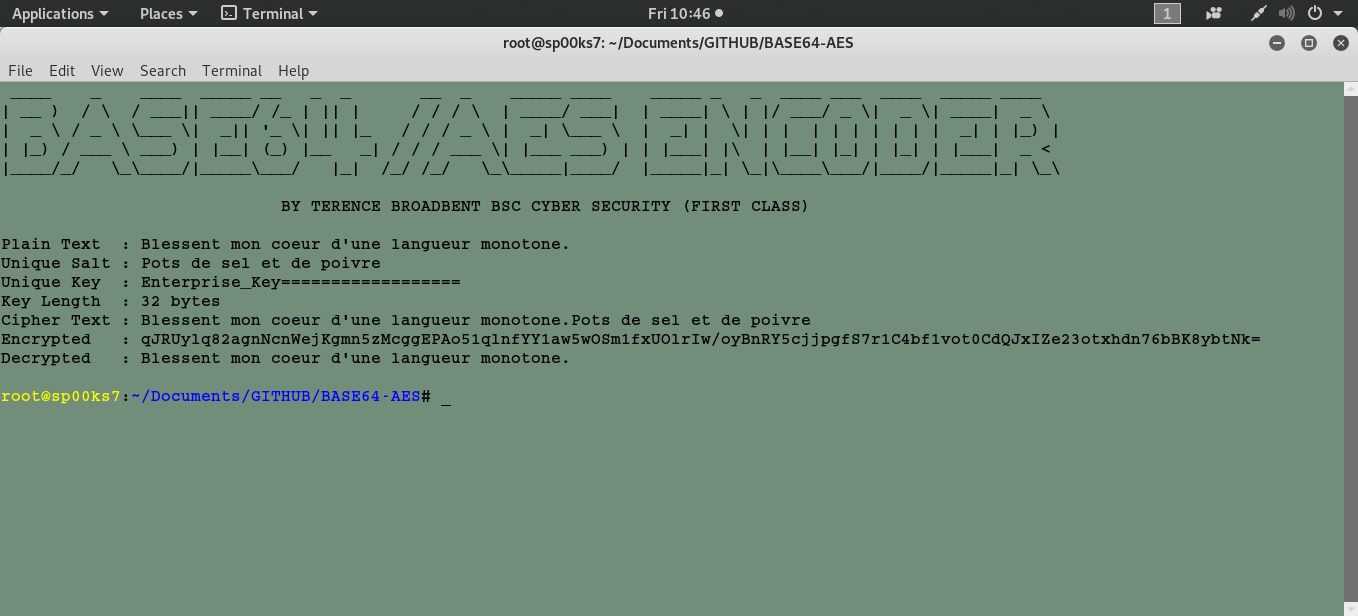
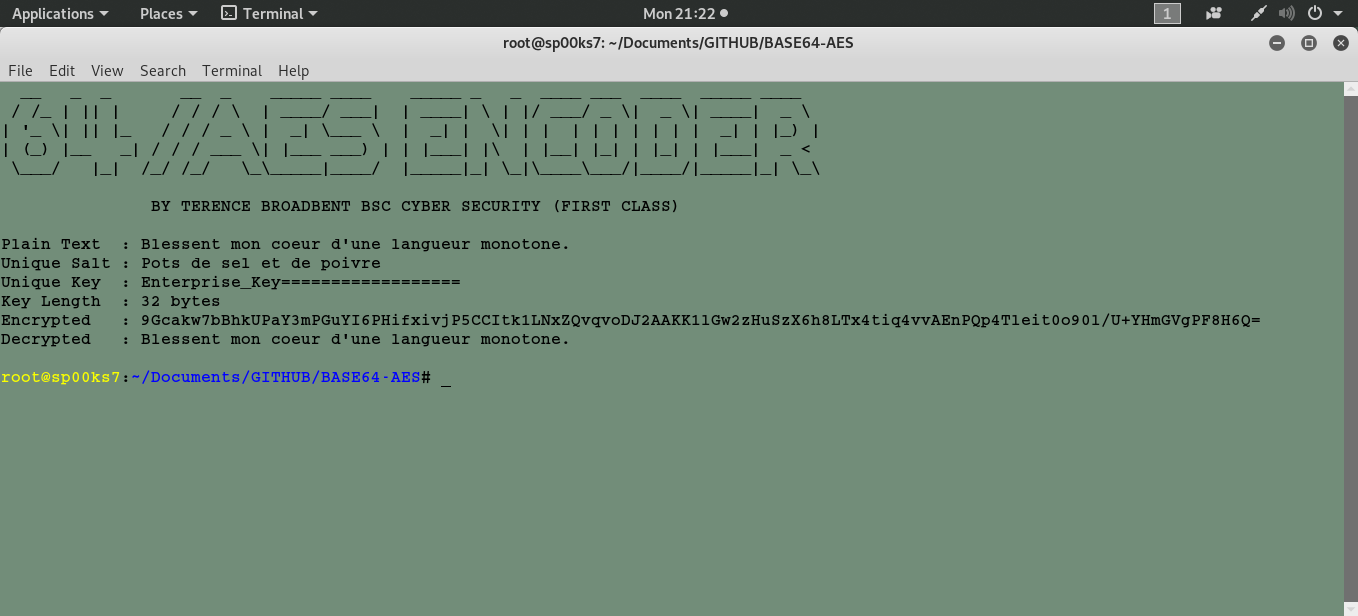
changes

diff --git a/base64_aes.py b/base64_aes.py
@@ -30,13 +30,13 @@ from Crypto.Cipher import AES
 
 os.system("clear")
 
-print " ____    _    ____  _____ __   _  _       __  _    _____ ____    _____ _   _  ____ ___  ____  _____ ____   "
-print "| __ )  / \  / ___|| ____/ /_ | || |     / / / \  | ____/ ___|  | ____| \ | |/ ___/ _ \|  _ \| ____|  _ \  "
-print "|  _ \ / _ \ \___ \|  _|| '_ \| || |_   / / / _ \ |  _| \___ \  |  _| |  \| | |  | | | | | | |  _| | |_) | "
-print "| |_) / ___ \ ___) | |__| (_) |__   _| / / / ___ \| |___ ___) | | |___| |\  | |__| |_| | |_| | |___|  _ <  "
-print "|____/_/   \_\____/|_____\___/   |_|  /_/ /_/   \_\_____|____/  |_____|_| \_|\____\___/|____/|_____|_| \_\ "
-print "                                                                                                           "
-print "                            BY TERENCE BROADBENT BSC CYBER SECURITY (FIRST CLASS)                        \n"
+print "  __   _  _       __  _    _____ ____    _____ _   _  ____ ___  ____  _____ ____   "
+print " / /_ | || |     / / / \  | ____/ ___|  | ____| \ | |/ ___/ _ \|  _ \| ____|  _ \  "
+print "| '_ \| || |_   / / / _ \ |  _| \___ \  |  _| |  \| | |  | | | | | | |  _| | |_) | "
+print "| (_) |__   _| / / / ___ \| |___ ___) | | |___| |\  | |__| |_| | |_| | |___|  _ <  "
+print " \___/   |_|  /_/ /_/   \_\_____|____/  |_____|_| \_|\____\___/|____/|_____|_| \_\ "
+print "                                                                                   "
+print "               BY TERENCE BROADBENT BSC CYBER SECURITY (FIRST CLASS)             \n"
 
 # ------------------------------------------------------------------------------------- 
 # AUTHOR  : Terence Broadbent                                                    
@@ -66,7 +66,6 @@ print "Plain Text  : " + plainText
 print "Unique Salt : " + uniqueSalt
 print "Unique Key  : " + uniqueKey
 print "Key Length  : " + str(bytes) + " bytes"
-print "Cipher Text : " + codedMessage
 
 # ------------------------------------------------------------------------------------- 
 # AUTHOR  : Terence Broadbent                                                    

diff --git a/README.md b/README.md
@@ -1,11 +1,11 @@
 # BASE64/AES ENCODER
 ### A simple python script file to create and read BASE64/AES encoded text strings using a unique salt and a corporate Enterprise key.
 
-Usage: python base64-aes.py
+Usage: python base64_aes.py
 
 | LANGUAGE | FILENAME      | MD5 HASH                         |
 |------    |------         | -------                          |
-| python   | base64_aes.py | 07941da4eb2ac4b489bc84b81fb12107 |
+| python   | base64_aes.py | 612098b89b9d081bb948c31841b7493f |
 
 ## CONSOLE DISPLAY
 ![Screenshot](picture1.png)
